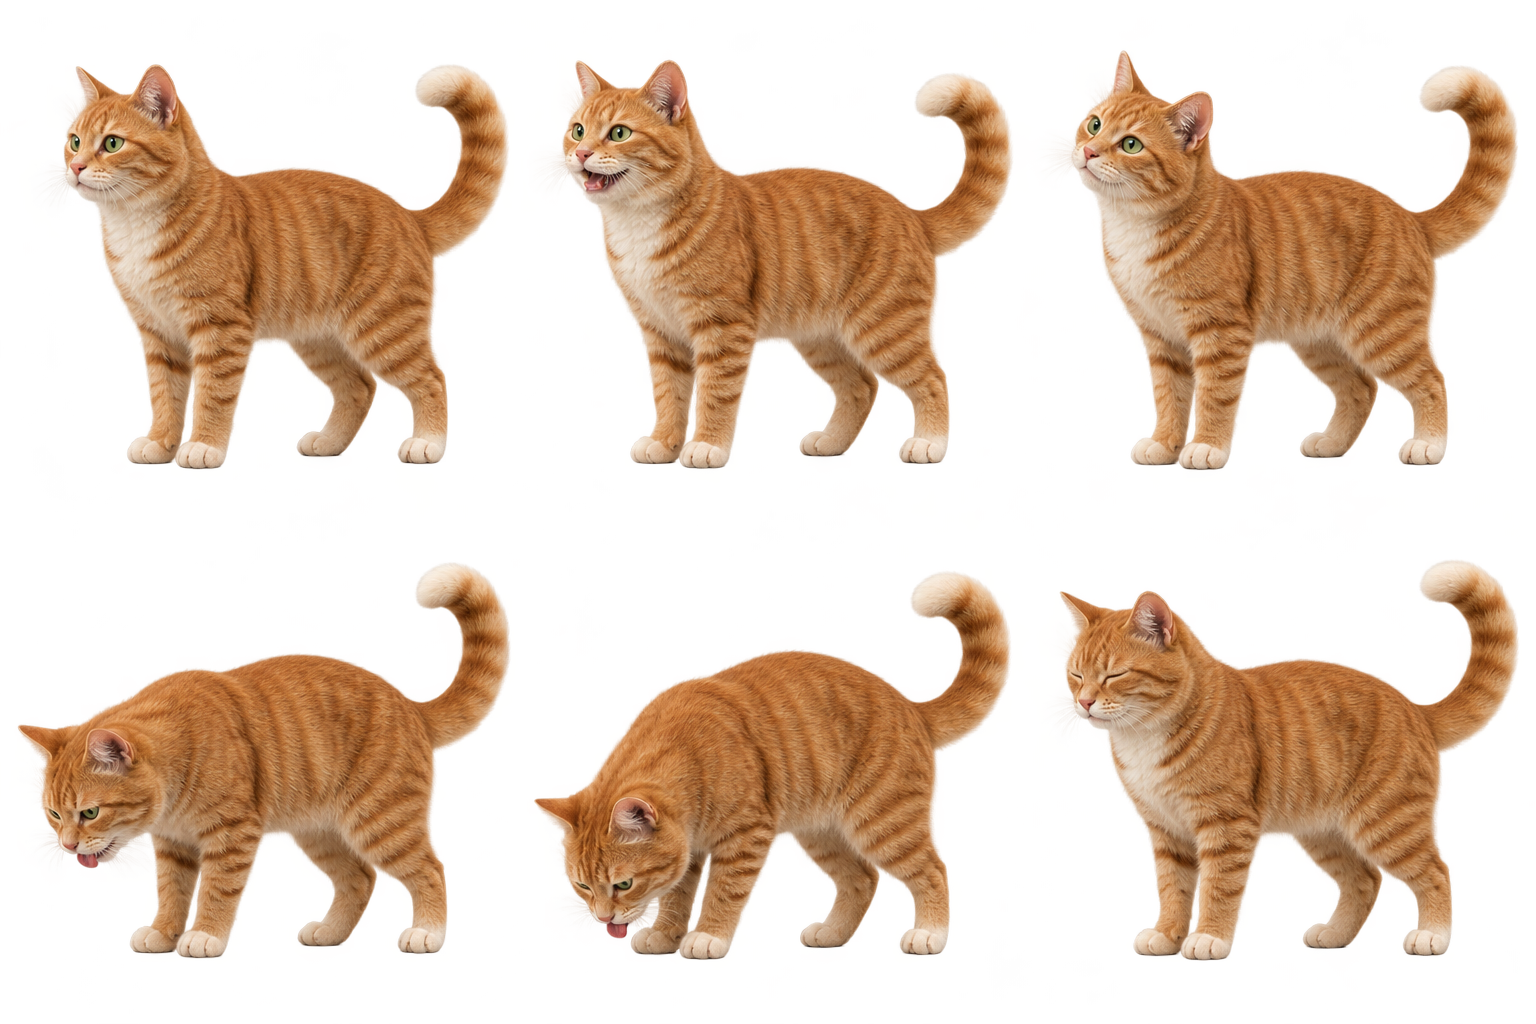
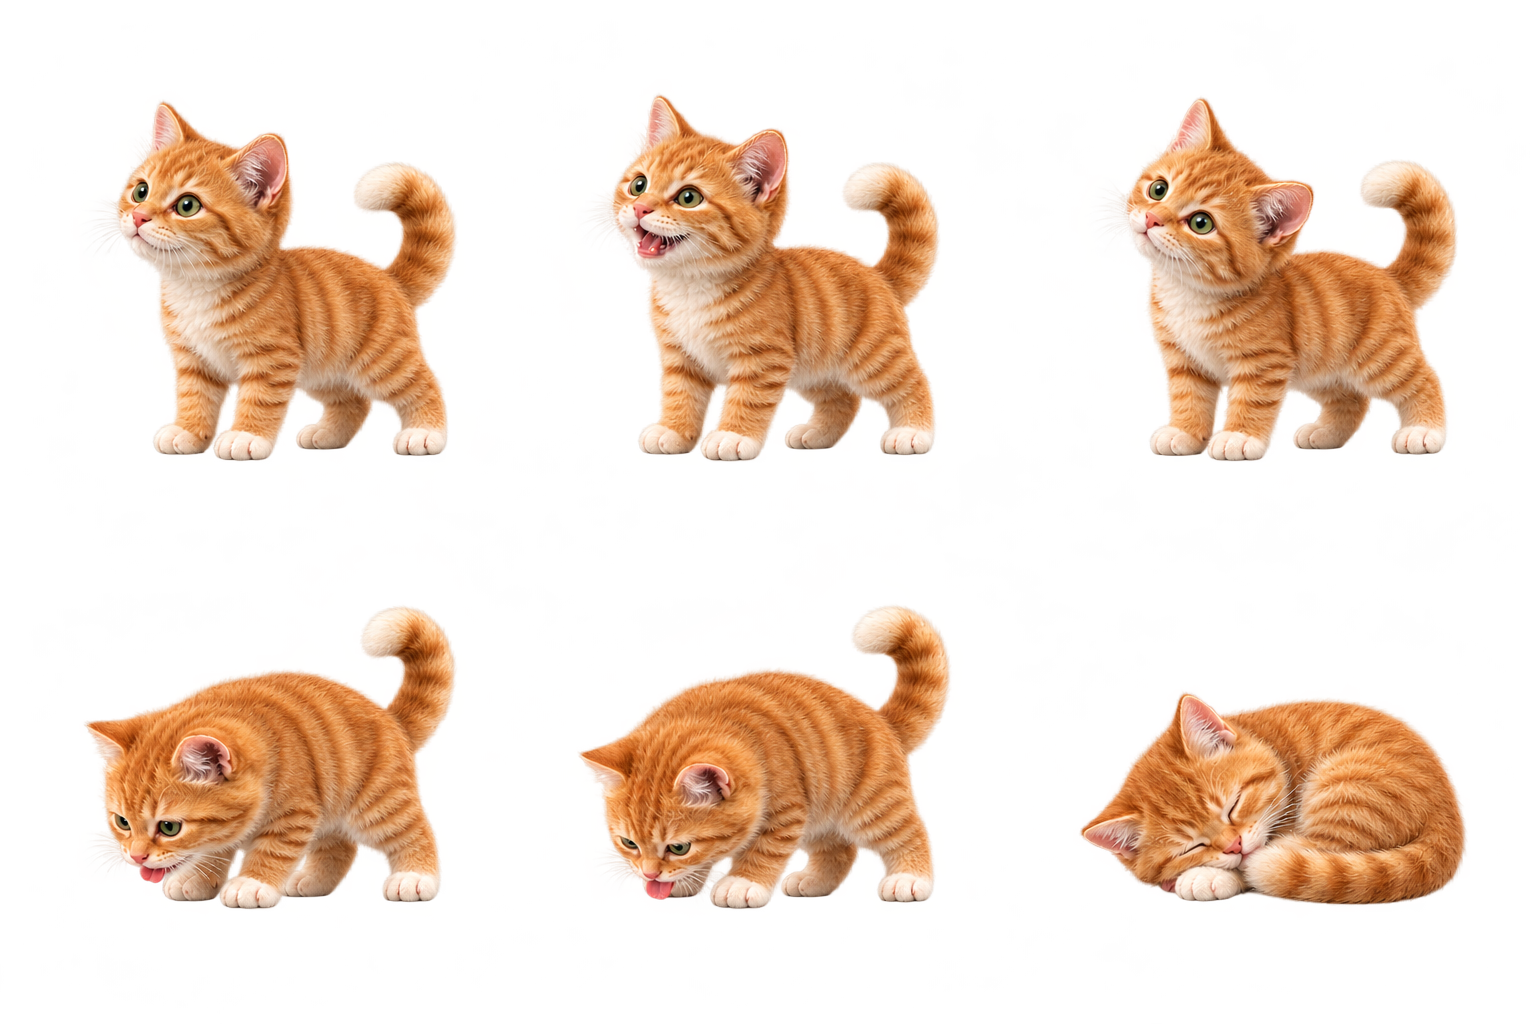
Give five companions baby identities and lifelike expressions

diff --git a/Tests/ByteTests/CareModelTests.swift b/Tests/ByteTests/CareModelTests.swift
@@ -123,6 +123,7 @@ final class CareModelTests: XCTestCase {
         XCTAssertNil(GlobalShortcut(defaults: f.defaults).configuration)
     }
 
+    /// Exports the actual light/dark dashboards and portraits used in the companion guide.
     @MainActor
     func testCareDashboardRendersForEveryCompanion() throws {
         let f = try CareFixture(); defer { f.clean() }
@@ -201,59 +202,63 @@ final class CareModelTests: XCTestCase {
         }
     }
 
-    /// Renders every duck care context and verifies that only normal motion changes beats.
-    /// A settled nap and the phase-independent wake/nuzzle poses also remain renderable.
+    /// Renders every baby's care context and checks motion without changing the expression.
+    /// Care props and poses advance normally but stay fixed under Reduce Motion.
     /// When requested, exports the native images for documentation and visual inspection.
     @MainActor
-    func testPuddleCareScenesRenderWithAndWithoutReducedMotion() throws {
+    func testCareScenesRenderForEveryCompanionWithBothMotionPolicies() throws {
         let f = try CareFixture(); defer { f.clean() }
         let model = f.model()
-        XCTAssertTrue(model.selectCompanion(.duck))
-        let scenes: [(CareAction, ByteSprite.Mood)] = [(.meal, .eating), (.snack, .eating), (.water, .drinking),
-            (.play, .happy), (.explore, .eating), (.rest, .sleeping), (.wake, .neutral), (.affection, .happy)]
         let phaseSensitiveActions: [CareAction] = [.meal, .snack, .water, .play, .explore]
-        for (action, mood) in scenes {
-            model.pet = PetState(now: f.start)
-            if action == .wake { model.pet.restingUntil = f.start.addingTimeInterval(240) }
-            let token = try XCTUnwrap(model.beginCare(action))
-            if action == .rest {
-                model.completeCare(token)
-                XCTAssertTrue(model.pet.isResting, "The nest must also render after the care animation settles")
-            }
-            for reduced in [false, true] {
-                var frames: [Data] = []
-                for phase in 0...1 {
-                    let scene = CareView(model: model, accent: Color(red: 0.88, green: 0.63, blue: 0.22),
-                                         mood: mood, phase: phase, isBusy: true, onCare: { _ in })
-                    let view = VStack(spacing: 8) {
-                        Text(action.title(for: .duck)).font(.headline)
-                        scene.habitat(reducingMotion: reduced)
+        for companion in Companion.allCases {
+            XCTAssertTrue(model.selectCompanion(companion))
+            let rgb = companion.tint
+            let scenes: [(CareAction, ByteSprite.Mood)] = [(.meal, .eating), (.snack, .eating), (.water, .drinking),
+                (.play, .happy), (.explore, companion == .duck ? .eating : .happy),
+                (.rest, .sleeping), (.wake, .neutral), (.affection, .happy)]
+            for (action, mood) in scenes {
+                model.pet = PetState(now: f.start)
+                if action == .wake { model.pet.restingUntil = f.start.addingTimeInterval(240) }
+                let token = try XCTUnwrap(model.beginCare(action))
+                if action == .rest {
+                    model.completeCare(token)
+                    XCTAssertTrue(model.pet.isResting, "Rest must also render after the care animation settles")
+                }
+                for reduced in [false, true] {
+                    var frames: [Data] = []
+                    for phase in 0...1 {
+                        let scene = CareView(model: model, accent: Color(red: rgb.0, green: rgb.1, blue: rgb.2),
+                                             mood: mood, phase: phase, isBusy: true, onCare: { _ in })
+                        let view = VStack(spacing: 8) {
+                            Text(action.title(for: companion)).font(.headline)
+                            scene.habitat(reducingMotion: reduced)
+                        }
+                        .padding(16).frame(width: 370).background(Color(white: 0.97))
+                        .environment(\.colorScheme, .light)
+                        let renderer = ImageRenderer(content: view)
+                        renderer.scale = 2
+                        let image = try XCTUnwrap(renderer.cgImage, "\(companion.name) / \(action.rawValue)")
+                        XCTAssertEqual(image.width, 740)
+                        let bitmap = NSBitmapImageRep(cgImage: image)
+                        let data = try XCTUnwrap(bitmap.representation(using: .png, properties: [:]))
+                        XCTAssertGreaterThan(data.count, 1000)
+                        frames.append(data)
+                        if phase == 1, let directory = ProcessInfo.processInfo.environment["NOOKLINGS_SNAPSHOT_DIRECTORY"] {
+                            let url = URL(fileURLWithPath: directory)
+                            try FileManager.default.createDirectory(at: url, withIntermediateDirectories: true)
+                            try data.write(to: url.appendingPathComponent("\(companion.rawValue)-\(action.rawValue)\(reduced ? "-reduced-motion" : "").png"))
+                        }
                     }
-                    .padding(16).frame(width: 370).background(Color(white: 0.97))
-                    .environment(\.colorScheme, .light)
-                    let renderer = ImageRenderer(content: view)
-                    renderer.scale = 2
-                    let image = try XCTUnwrap(renderer.cgImage, action.rawValue)
-                    XCTAssertEqual(image.width, 740)
-                    let bitmap = NSBitmapImageRep(cgImage: image)
-                    let data = try XCTUnwrap(bitmap.representation(using: .png, properties: [:]))
-                    XCTAssertGreaterThan(data.count, 1000)
-                    frames.append(data)
-                    if phase == 1, let directory = ProcessInfo.processInfo.environment["NOOKLINGS_SNAPSHOT_DIRECTORY"] {
-                        let url = URL(fileURLWithPath: directory)
-                        try FileManager.default.createDirectory(at: url, withIntermediateDirectories: true)
-                        try data.write(to: url.appendingPathComponent("duck-\(action.rawValue)\(reduced ? "-reduced-motion" : "").png"))
+                    if phaseSensitiveActions.contains(action) {
+                        if reduced {
+                            XCTAssertEqual(frames[0], frames[1], "\(companion.name) / \(action.rawValue) must hold still with Reduce Motion")
+                        } else {
+                            XCTAssertNotEqual(frames[0], frames[1], "\(companion.name) / \(action.rawValue) must change between beats")
+                        }
                     }
                 }
-                if phaseSensitiveActions.contains(action) {
-                    if reduced {
-                        XCTAssertEqual(frames[0], frames[1], "\(action.rawValue) must hold a fixed pose with Reduce Motion")
-                    } else {
-                        XCTAssertNotEqual(frames[0], frames[1], "\(action.rawValue) must change pose between animation beats")
-                    }
-                }
+                model.cancelCare(token)
             }
-            model.cancelCare(token)
         }
     }
 

diff --git a/Sources/Byte/Companion.swift b/Sources/Byte/Companion.swift
@@ -5,46 +5,50 @@ enum Companion: String, Codable, CaseIterable, Identifiable {
     case trex, dolphin, dog, cat, panda, duck
     var id: String { rawValue }
 
+    /// Baby display names may change without renaming the stable save identifiers.
     var name: String {
         switch self {
-        case .trex: return "Byte"
-        case .dolphin: return "Ripple"
-        case .dog: return "Biscuit"
-        case .cat: return "Miso"
-        case .panda: return "Bao"
+        case .trex: return "Niblet"
+        case .dolphin: return "Bubbles"
+        case .dog: return "Waffles"
+        case .cat: return "Mochi"
+        case .panda: return "Pebble"
         case .duck: return "Puddle"
         }
     }
 
+    /// The baby's species and life stage, shared by the care header and chat persona.
     var species: String {
         switch self {
-        case .trex: return "T-Rex"
-        case .dolphin: return "Dolphin"
-        case .dog: return "Golden retriever"
-        case .cat: return "Tabby cat"
-        case .panda: return "Giant panda"
+        case .trex: return "T-Rex hatchling"
+        case .dolphin: return "Bottlenose dolphin calf"
+        case .dog: return "Golden retriever puppy"
+        case .cat: return "Tabby kitten"
+        case .panda: return "Giant panda cub"
         case .duck: return "Pekin duckling"
         }
     }
 
+    /// A short introduction used in the habitat and the selected companion's chat prompt.
     var personality: String {
         switch self {
-        case .trex: return "Small arms. Big heart."
-        case .dolphin: return "A little wave of wonder."
-        case .dog: return "Your golden-hour best friend."
-        case .cat: return "Curiosity, with a side of mischief."
-        case .panda: return "Slow mornings. Happy tumbles."
+        case .trex: return "Tiny teeth. Giant cuddles."
+        case .dolphin: return "Little flippers. Big wonder."
+        case .dog: return "Little paws. Whole-heart wags."
+        case .cat: return "Pocket-sized purrs."
+        case .panda: return "A little fluff. A lot of hugs."
         case .duck: return "Tiny waddles. Big feelings."
         }
     }
 
+    /// Supplies an optional check-in in the baby's own voice without using the network.
     var greeting: String {
         switch self {
         case .trex: return Quips.random()
-        case .dolphin: return "Making a little splash in your day."
-        case .dog: return "You’re here! That’s my favorite part."
-        case .cat: return "I saved you a spot in my sunbeam."
-        case .panda: return "One thing at a time. Then a bamboo break."
+        case .dolphin: return "I made the tiniest splash just for you."
+        case .dog: return "My paws are little. My happy dance is not."
+        case .cat: return "One tiny purr, coming right up."
+        case .panda: return "I brought a little bamboo and a very big hug."
         case .duck: return "Peep! I saved the nicest puddle for you."
         }
     }
@@ -61,13 +65,14 @@ enum Companion: String, Codable, CaseIterable, Identifiable {
         }
     }
 
+    /// Names the species' main meal; its nutrition continues to use the existing care tuning.
     var meal: String {
         switch self {
-        case .trex: return "Prime bites"
-        case .dolphin: return "Fish school"
-        case .dog: return "Dinner bowl"
-        case .cat: return "Salmon supper"
-        case .panda: return "Bamboo buffet"
+        case .trex: return "Hatchling bites"
+        case .dolphin: return "Little fish bites"
+        case .dog: return "Puppy supper"
+        case .cat: return "Kitten salmon"
+        case .panda: return "Tender bamboo"
         case .duck: return "Duckling crumble"
         }
     }
@@ -94,9 +99,10 @@ enum Companion: String, Codable, CaseIterable, Identifiable {
         case .duck: return "Bill dip & splash"
         }
     }
+    /// Explains whether the refresh is drinking water, skin care, or a bill rinse.
     var hydrationHint: String {
         switch self {
-        case .dolphin: return "A refreshing splash for Ripple’s skin."
+        case .dolphin: return "A refreshing splash keeps \(name) feeling fresh."
         case .duck: return "Clean fresh water for little sips and a happy bill rinse."
         default: return "Fresh water and a quiet moment."
         }

diff --git a/Sources/Byte/ByteSprite.swift b/Sources/Byte/ByteSprite.swift
@@ -46,36 +46,28 @@ enum CompanionArtwork {
                   let atlas = CGImageSourceCreateImageAtIndex(source, 0, nil) else { continue }
             let w = atlas.width / 3, h = atlas.height / 2
             result[companion] = ByteSprite.Mood.allCases.compactMap { mood in
-                if companion == .duck {
-                    // Keep Puddle's crown tuft and webbed feet. Isolate the cell
-                    // before moving the lower poses down to the standing baseline.
-                    let row = mood.rawValue / 3
-                    guard let cell = atlas.cropping(to: CGRect(x: (mood.rawValue % 3) * w,
-                                                              y: row * h, width: w, height: h)) else { return nil }
-                    guard row == 1 else { return cell }
-                    guard let canvas = CGContext(data: nil, width: w, height: h, bitsPerComponent: 8,
-                                                 bytesPerRow: w * 4, space: CGColorSpaceCreateDeviceRGB(),
-                                                 bitmapInfo: CGImageAlphaInfo.premultipliedLast.rawValue) else { return nil }
-                    canvas.draw(cell, in: CGRect(x: 0, y: -44, width: w, height: h))
-                    return canvas.makeImage()
-                }
-                // Discard the empty top/bottom gutter, keeping all poses on the same canvas.
-                // The second row's generated poses sit slightly higher. Match the
-                // standing baseline so expressions don't jump during a bite or sip.
-                let lowerRowInset: Int
-                switch companion {
-                case .trex: lowerRowInset = 9
-                case .dolphin: lowerRowInset = -7
-                case .dog: lowerRowInset = -7
-                case .cat: lowerRowInset = 18
-                case .panda: lowerRowInset = 10
-                case .duck: lowerRowInset = 0 // Uses the full-cell path above.
-                }
+                // The baby atlases use full cells so ears, paws, fins, and tails
+                // stay intact. Crop before shifting to avoid sampling a neighbor.
                 let row = mood.rawValue / 3
-                let rect = CGRect(x: (mood.rawValue % 3) * w,
-                                  y: row * h + (row == 0 ? 40 : lowerRowInset),
-                                  width: w, height: h - 70)
-                return atlas.cropping(to: rect)
+                guard let cell = atlas.cropping(to: CGRect(x: (mood.rawValue % 3) * w,
+                                                          y: row * h, width: w, height: h)) else { return nil }
+                guard row == 1 else { return cell }
+                // Match the lower poses to the standing baseline in each bundled atlas.
+                // Each shift stays inside the isolated cell's transparent bottom margin.
+                let lowerRowShift: CGFloat
+                switch companion {
+                case .trex: lowerRowShift = 77
+                case .dolphin: lowerRowShift = 45
+                case .dog: lowerRowShift = 65
+                case .cat: lowerRowShift = 66
+                case .panda: lowerRowShift = 70
+                case .duck: lowerRowShift = 44
+                }
+                guard let canvas = CGContext(data: nil, width: w, height: h, bitsPerComponent: 8,
+                                             bytesPerRow: w * 4, space: CGColorSpaceCreateDeviceRGB(),
+                                             bitmapInfo: CGImageAlphaInfo.premultipliedLast.rawValue) else { return nil }
+                canvas.draw(cell, in: CGRect(x: 0, y: -lowerRowShift, width: w, height: h))
+                return canvas.makeImage()
             }
         }
         return result

diff --git a/Sources/Byte/ByteModel.swift b/Sources/Byte/ByteModel.swift
@@ -301,7 +301,7 @@ final class ByteModel: ObservableObject {
             case .trex: return "A big drink for a little dinosaur."
             case .dolphin: return "Fresh splash, happy flippers."
             case .dog: return "Bowl empty. Tail still wagging."
-            case .cat: return "Fresh running water. Miso approves."
+            case .cat: return "Fresh running water. \(companion.name) approves."
             case .panda: return "Cool spring water. Back to taking it slow."
             case .duck: return "Dip, sip, happy peep. Puddle’s bill is sparkling."
             }
@@ -318,10 +318,10 @@ final class ByteModel: ObservableObject {
         case .affection:
             switch companion {
             case .trex: return "Tiny arms, enormous appreciation."
-            case .dolphin: return "Ripple answers with a happy little whistle."
-            case .dog: return "Biscuit’s tail says it all."
+            case .dolphin: return "\(companion.name) answers with a happy little whistle."
+            case .dog: return "\(companion.name) has the happiest little tail."
             case .cat: return "A slow blink and a very contented purr."
-            case .panda: return "Bao leans into your gentle pat."
+            case .panda: return "\(companion.name) leans into your gentle pat."
             case .duck: return "Puddle nestles into your hand. The tiniest, happiest peep."
             }
         }

diff --git a/Sources/Byte/Quips.swift b/Sources/Byte/Quips.swift
@@ -1,20 +1,21 @@
 import Foundation
 
 enum Quips {
+    /// Short, local hatchling lines for Niblet's optional check-ins.
     static let lines = [
         "Rawr! (That's hello in dino.)",
         "Need a hand? Mine are tiny, but I'm all in.",
-        "Thinking… stomp… stomp… stomp…",
+        "Thinking… tiny stomp… tiny stomp…",
         "Stomping through your context window.",
         "Digging up the answer — I'm good at fossils.",
-        "Top of the notch, top of the food chain.",
+        "Still growing into these tiny feet.",
         "Two tiny arms, one big brain.",
-        "Don't worry, I won't byte. Much.",
+        "Just a nibble. I promise.",
         "Small arms. Huge enthusiasm.",
         "Stuck? Let's dig in together.",
         "Stomp. That was a thought.",
         "Keeping your notch from going extinct.",
-        "Prehistoric, but I keep up just fine.",
+        "Newly hatched. Extremely curious.",
         "T-rex-cellent to see you.",
         "Let's make today rawr-some."
     ]

diff --git a/Sources/Byte/ByteView.swift b/Sources/Byte/ByteView.swift
@@ -529,7 +529,8 @@ struct ByteView: View {
                 } else {
                     switch action {
                     case .meal, .snack:
-                        withAnimation(.easeOut(duration: 0.4)) { propX = -35; propY = companion == .trex || companion == .dolphin ? -6 : 26 }
+                        // The baby eating poses lower their mouths toward the same feeding height.
+                        withAnimation(.easeOut(duration: 0.4)) { propX = -35; propY = 26 }
                         try await pause(0.4)
                         for bite in 1...4 {
                             carePhase = bite

diff --git a/Sources/Byte/PetCare.swift b/Sources/Byte/PetCare.swift
@@ -125,7 +125,7 @@ struct PetState: Codable {
         switch action {
         case .meal:
             hunger += companion.mealGain; happiness += 6
-            if companion == .dolphin { thirst += 8 } // Ripple also gets moisture from fish.
+            if companion == .dolphin { thirst += 8 } // Dolphin calves also get moisture from fish.
         case .snack: hunger += companion.snackGain; happiness += 8
         case .water: thirst += companion.waterGain; happiness += companion.waterJoy
         case .play: energy -= companion.playCost; thirst -= companion.playWaterCost; happiness += companion.playJoy

diff --git a/Tests/ByteTests/PetCareTests.swift b/Tests/ByteTests/PetCareTests.swift
@@ -73,7 +73,7 @@ final class PetCareTests: XCTestCase {
         panda.perform(.meal, companion: .panda, at: start)
         XCTAssertEqual(dino.hunger, 68)
         XCTAssertEqual(dolphin.hunger, 62)
-        XCTAssertEqual(dolphin.thirst, 48, "Fish contributes to Ripple's moisture")
+        XCTAssertEqual(dolphin.thirst, 48, "Fish contributes to the dolphin calf's moisture")
         XCTAssertEqual(panda.hunger, 58)
         dino.perform(.play, companion: .trex, at: start)
         panda.perform(.play, companion: .panda, at: start)
